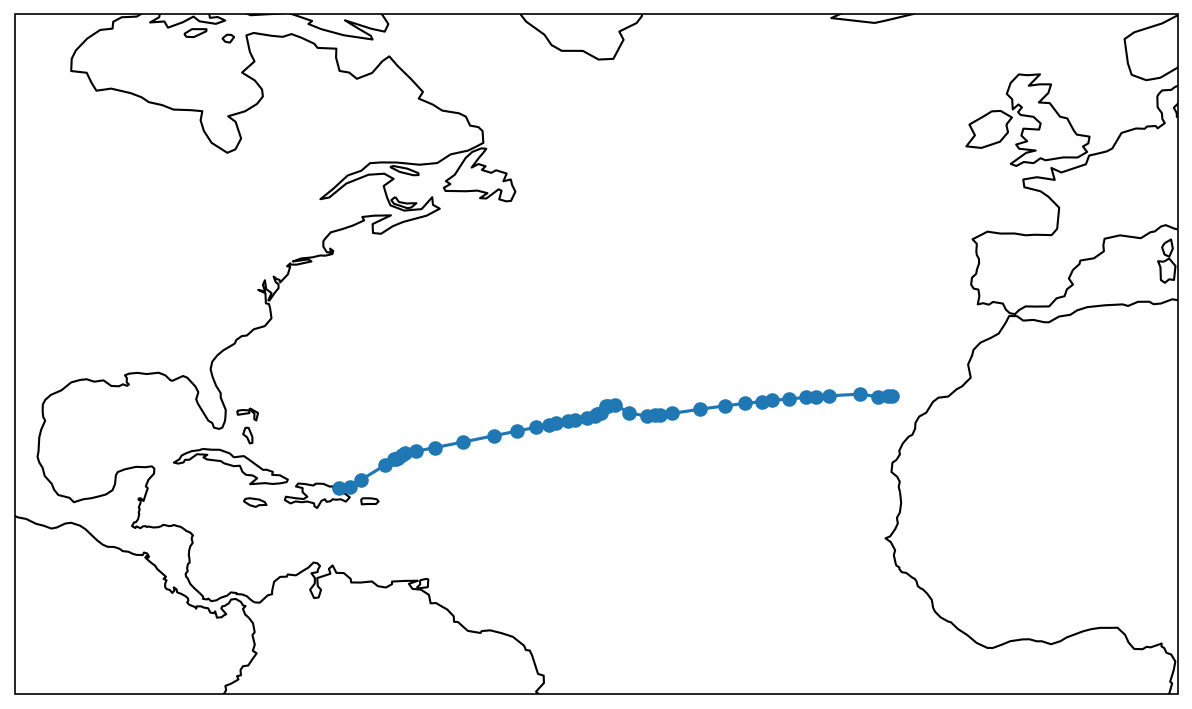
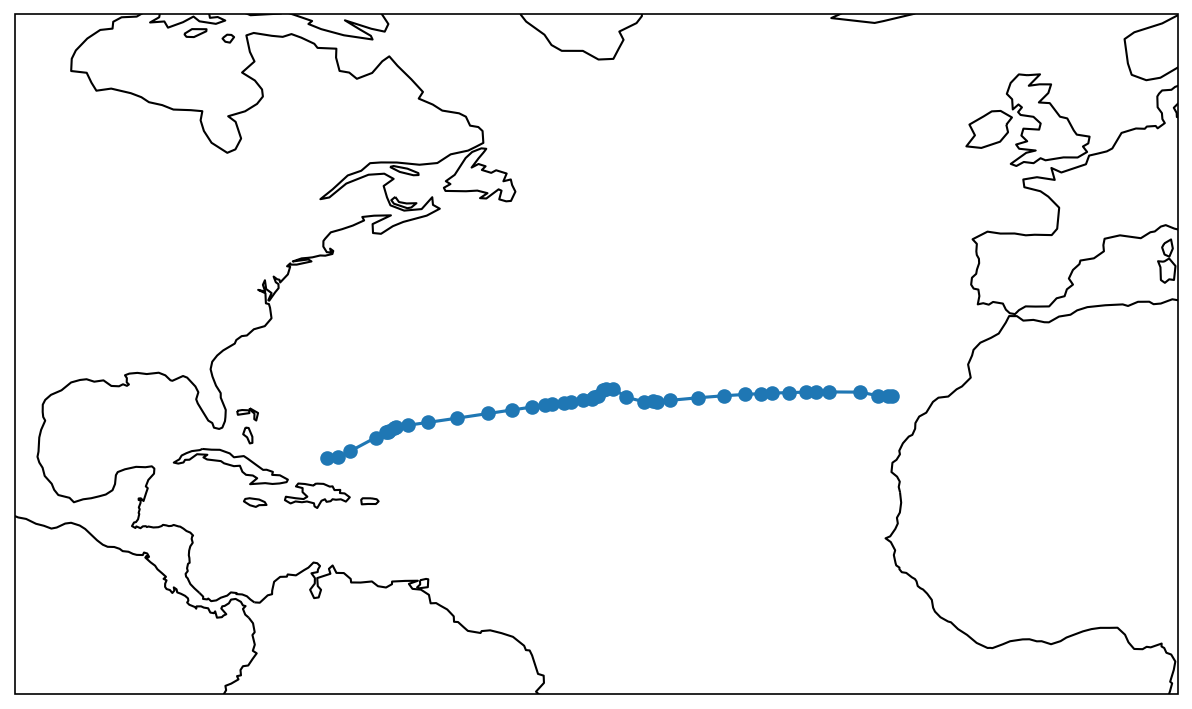
Removed erroneous -4 degree offset leftover from testing

Changed region(s): [[0.2483, 0.5275, 0.745, 0.7137]]

diff --git a/declination.py b/declination.py
@@ -83,7 +83,7 @@ def plot_course(course, model, year):
         starting_loc = (lats[-1], lons[-1])
         # Correct bearing for declination
         d, i, f = local_curve([year], starting_loc, model)
-        corrected_bearing = bearing + d[0] -4
+        corrected_bearing = bearing + d[0]
 
         # Calculate new position
         result = geod.Direct(starting_loc[0], starting_loc[1], corrected_bearing, leagues_to_m(distance))
